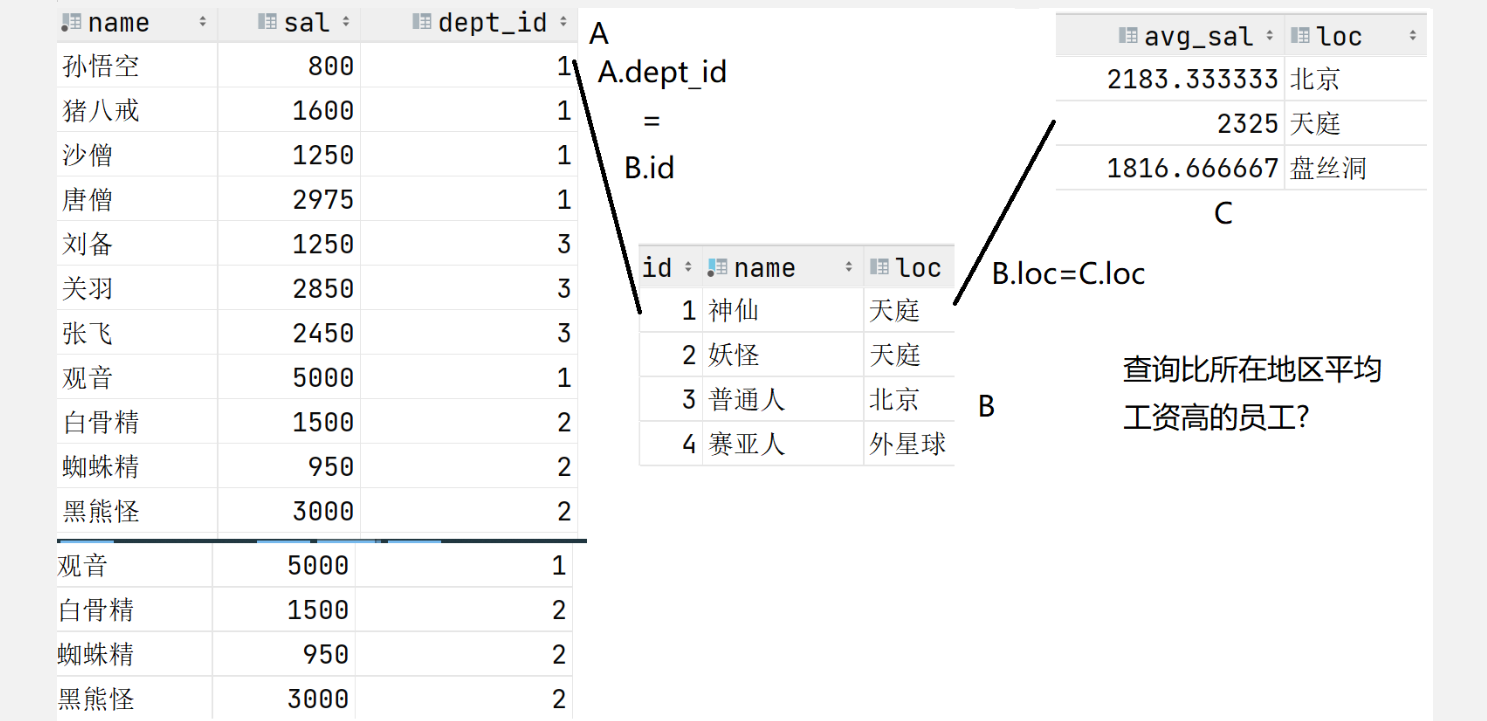
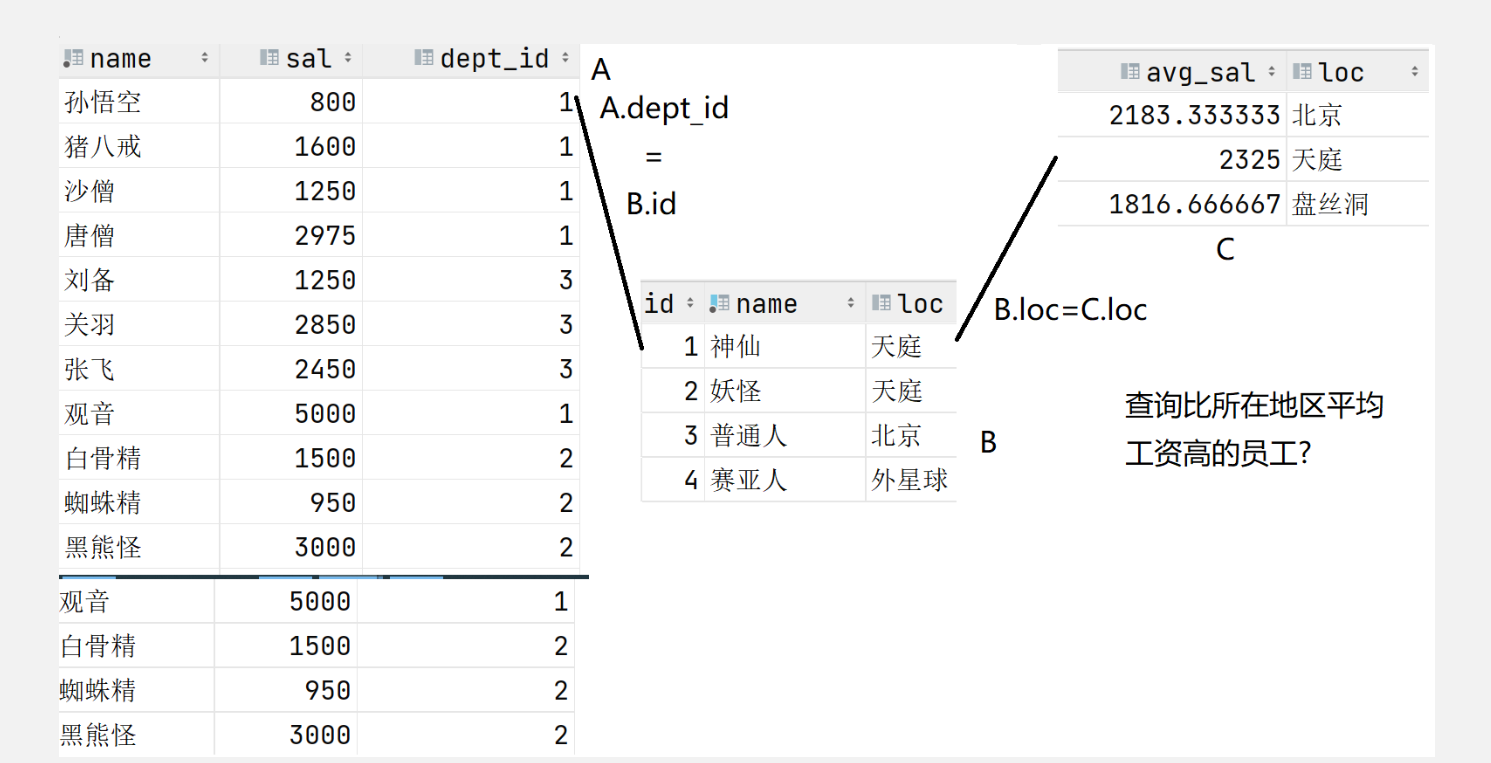
关于使用MySQL的代码文件

diff --git a/数据库笔记/数据库总结/MySQL总结.md b/数据库笔记/数据库总结/MySQL总结.md
@@ -677,7 +677,7 @@ LEFT JOIN dept d
 ON e.dept_id = d.id;
 ```
 
-![img_4](C:\Users\admin\Desktop\img_4.png)
+![img_4](img_4.png)
 
 ### b.右外连接演示(RIGHT JOIN)
 
@@ -688,7 +688,7 @@ RIGHT JOIN dept d
 ON e.dept_id = d.id;
 ```
 
-![img_5](C:\Users\admin\Desktop\img_5.png)
+![img_5](img_5.png)
 
 ## ★使用UNION关键字将左右连接并在一起(取并集)
 
@@ -708,7 +708,7 @@ RIGHT JOIN dept d
 ON e.dept_id = d.id;
 ```
 
-![img_6](C:\Users\admin\Desktop\img_6.png)
+![img_6](img_6.png)
 
 ## 例：查看比所在地区平均工资高的员工？
 
@@ -731,7 +731,7 @@ GROUP BY d.loc;
 
 ### 第三步.关联三张表查询:员工表-部门表-(第2步子查询的结果集当成的表)
 
-![img](C:\Users\admin\Desktop\img.png)
+![img.png](img.png)
 
 ### 查询emp表数据
 
@@ -771,7 +771,7 @@ WHERE e.sal>a.avg_sal #过滤条件
 ORDER BY dept_id; #按照部门ID排序,使结果清晰！
 ```
 
-![img_3](C:\Users\admin\Desktop\img_3.png)
+![img_3](img_3.png)
 
 ## 21.自连接
 
@@ -1023,11 +1023,11 @@ try(
 
 #### (1).Statement每次执行SQL语句时，都会将该SQL语句发送给数据库，而数据库接收到SQL语句后会解析SQL语句并生成执行计划(该操作是一个耗时的操作)。然后再执行该计划。当SQL语义相同，但是数据不同时，如果我们执行这些SQL，那么每次数据库接收SQL都要生成执行计划。
 
-![img_7](C:\Users\admin\Desktop\img_7.png)
+![img_7](img_7.png)
 
 #### (2).PreparedStatement会在创建时先将预编译SQL语句发送给数据库来生成执行计划(仅1次)，并且"?"内容会在生成的执行计划中当作"参数".在多次执行时，每次仅需要将"?"对应的数据发送给数据库，来重用预编译SQL对应的执行计划，这样效率会高很多。
 
-![img_2](C:\Users\admin\Desktop\img_2.png)
+![img_2](img_2.png)
 
 #### Statement执行SQL语句时，数据是需要拼接SQL来完成，这存在SQL注入攻击，但是PreparedStatement会先将预编译SQL发送给数据库生成执行计划，那么所有数据都会被当作参数。因此就算传入的是注入攻击的内容，它也仅会当这部分内容为参数值，语义已经不会发生改变了(因为执行计划已经生成。)
 
